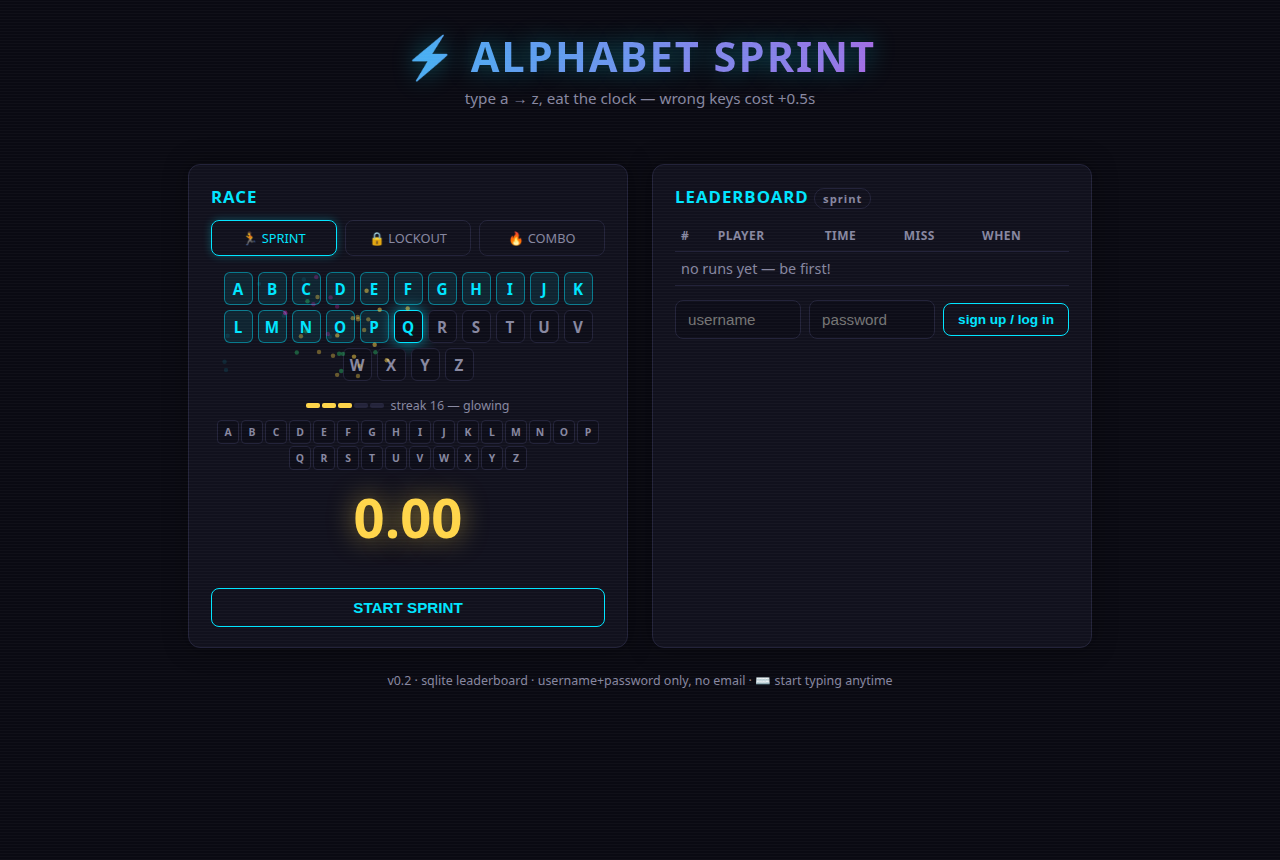
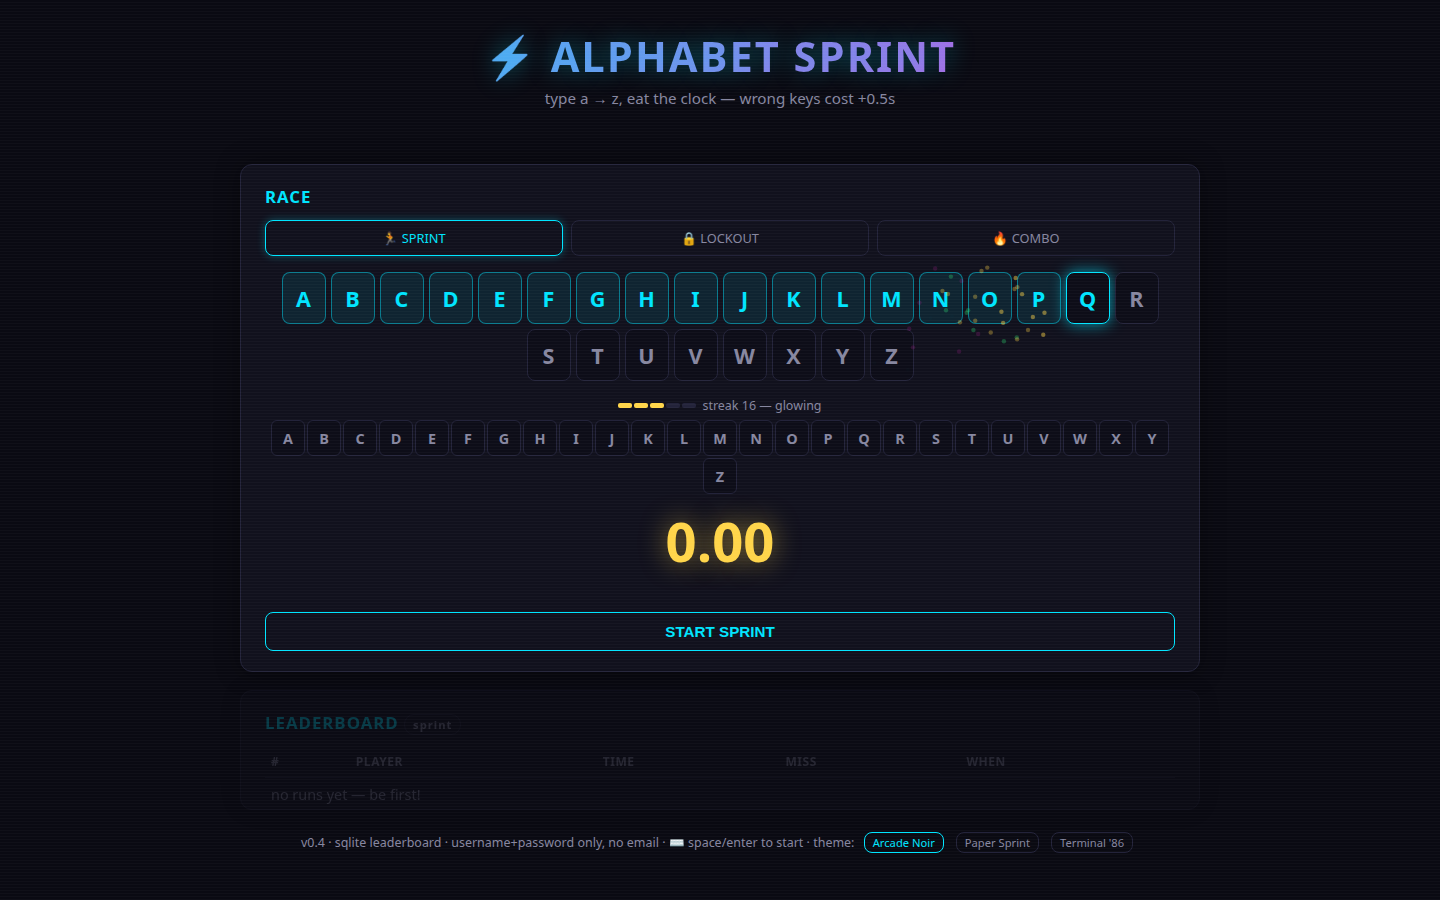
README: fresh v0.4 juice grabs (milestone, miss, finish, PB wave), full three-theme side-by-side; prune superseded v0.2-era grabs

diff --git a/README.md b/README.md
@@ -57,8 +57,18 @@ kids **see** their streak catch fire and feel it evaporate when they slip — no
 - Timing uses **`event.timeStamp` / `performance.now()`** (never `Date.now()`), ignores OS
   key-repeat, so measurements come from real input events — not render frames
 
+*Milestone pulse at letter 15 (heat tier "glowing", gold streak meter):*
+
 ![gold milestone beat](screenshots/03-milestone-gold.png)
+
+*Miss state: wrong key flashes red, honest +0.5s, run continues:*
+
 ![miss highlight](screenshots/04-miss.png)
+
+*Finish: giant glowing time — and on a personal best, a second confetti wave fires:*
+
+![finish with PB confetti](screenshots/09-finish-noir.png)
+![PB second wave](screenshots/09b-pb-wave2.png)
 
 ## Themes 🎨
 
@@ -74,8 +84,19 @@ Three looks, switchable from chips in the footer, remembered across visits
 Light-theme and retro alternates (Sunset Arcade, Ocean Deep, license-safe retro blocks) are
 sketched in [THEMES-AND-LAYOUT.md](THEMES-AND-LAYOUT.md) for v0.5.
 
-![paper theme](screenshots/07-theme-paper.png)
-![terminal theme](screenshots/08-theme-term.png)
+**All three themes, side by side:**
+
+**Arcade Noir** (default):
+
+![Arcade Noir](screenshots/10-theme-noir.png)
+
+**Paper Sprint**:
+
+![Paper Sprint](screenshots/11-theme-paper.png)
+
+**Terminal '86**:
+
+![Terminal '86](screenshots/12-theme-term.png)
 
 ## Run it
 
